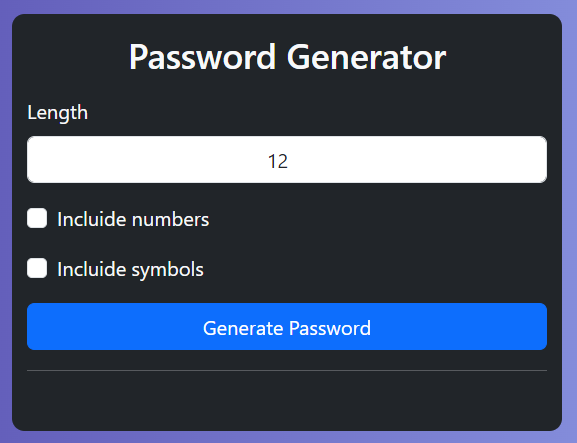
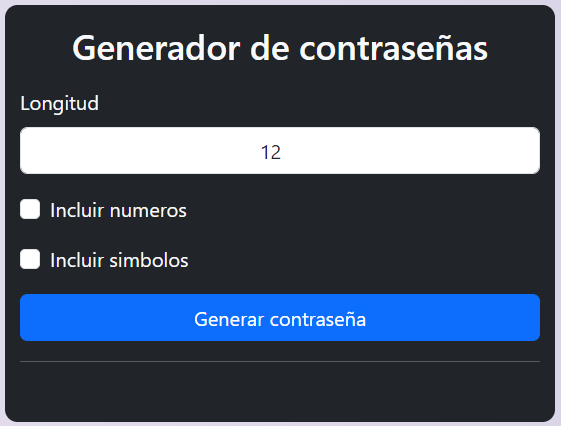
updt

Changed region(s): [[0.0, 0.0, 1.0, 1.0], [0.1212, 0.061, 0.8788, 0.1831]]

diff --git a/index.html b/index.html
@@ -4,7 +4,7 @@
         <meta charset="UTF-8" />
         <meta http-equiv="X-UA-Compatible" content="IE=edge" />
         <meta name="viewport" content="width=device-width, initial-scale=1.0" />
-        <title>Index</title>
+        <title>Generador de Contraseñas</title>
         <link href="https://cdn.jsdelivr.net/npm/bootstrap@5.3.2/dist/css/bootstrap.min.css" rel="stylesheet" integrity="sha384-T3c6CoIi6uLrA9TneNEoa7RxnatzjcDSCmG1MXxSR1GAsXEV/Dwwykc2MPK8M2HN" crossorigin="anonymous">
         <link rel="stylesheet" href="style.css" />
     </head>
@@ -13,22 +13,22 @@
             <div class="row justify-content-md-center">
                 <div class="col-md-4 bg-dark text-light" id="frame">
                     <div class="my-3">
-                        <h3 class="text-center">Password Generator</h3>
+                        <h3 class="text-center">Generador de contraseñas</h3>
                     </div>
                     <div class="mb-3">
-                        <label for="inputLength" class="form-label">Length</label>
+                        <label for="inputLength" class="form-label">Longitud</label>
                         <input type="number" id="inputLength" class="form-control text-center" min="1" max="50" value="12" />
                     </div>
                     <div class="form-check my-3">
                         <input type="checkbox" id="checkbox1" class="form-check-input" />
-                        <label class="form-check-label" for="checkbox1">Incluide numbers</label>
+                        <label class="form-check-label" for="checkbox1">Incluir numeros</label>
                     </div>
                     <div class="form-check my-3">
                         <input type="checkbox" id="checkbox2" class="form-check-input" />
-                        <label class="form-check-label" for="checkbox2">Incluide symbols</label>
+                        <label class="form-check-label" for="checkbox2">Incluir simbolos</label>
                     </div>
                     <div class="d-grid gap-2 my-3">
-                        <button class="btn btn-primary" id="btnGenerate">Generate Password</button>
+                        <button class="btn btn-primary" id="btnGenerate">Generar contraseña</button>
                     </div>
                     <hr />
                     <div class="d-grid gap-2 py-3">

diff --git a/style.css b/style.css
@@ -1,7 +1,10 @@
 body {
-   background: #a8c0ff;  /* fallback for old browsers */
-   background: -webkit-linear-gradient(to right, #3f2b96, #a8c0ff);
-   background: linear-gradient(to right, #3f2b96, #a8c0ff);
+   background: #D3CCE3;
+background: -webkit-linear-gradient(to right, #E9E4F0, #D3CCE3);
+background: linear-gradient(to right, #E9E4F0, #D3CCE3);
+
+
+
 }
 
 #frame {
@@ -11,3 +14,4 @@ body {
 .badge {
    font-size:20px;
 }
+

diff --git a/README.md b/README.md
@@ -17,9 +17,10 @@ La función principal `generatePassword` toma una base de caracteres y la longit
 
 3. **Opciones Adicionales:**
    - Puedes seleccionar las siguientes opciones adicionales:
-     - **Números:** Incluye números en la base de caracteres.
-     - **Símbolos:** Incluye símbolos especiales en la base de caracteres.
+     - **Números:** Incluye números en la contraseña.
+     - **Símbolos:** Incluye símbolos especiales en la contraseña.
 
 4. **Generar Contraseña:**
    - Haz clic en el botón "Generar" para generar una contraseña según las configuraciones seleccionadas.
 
+Hecho por [Francisco](https://github.com/FrankSkep)
